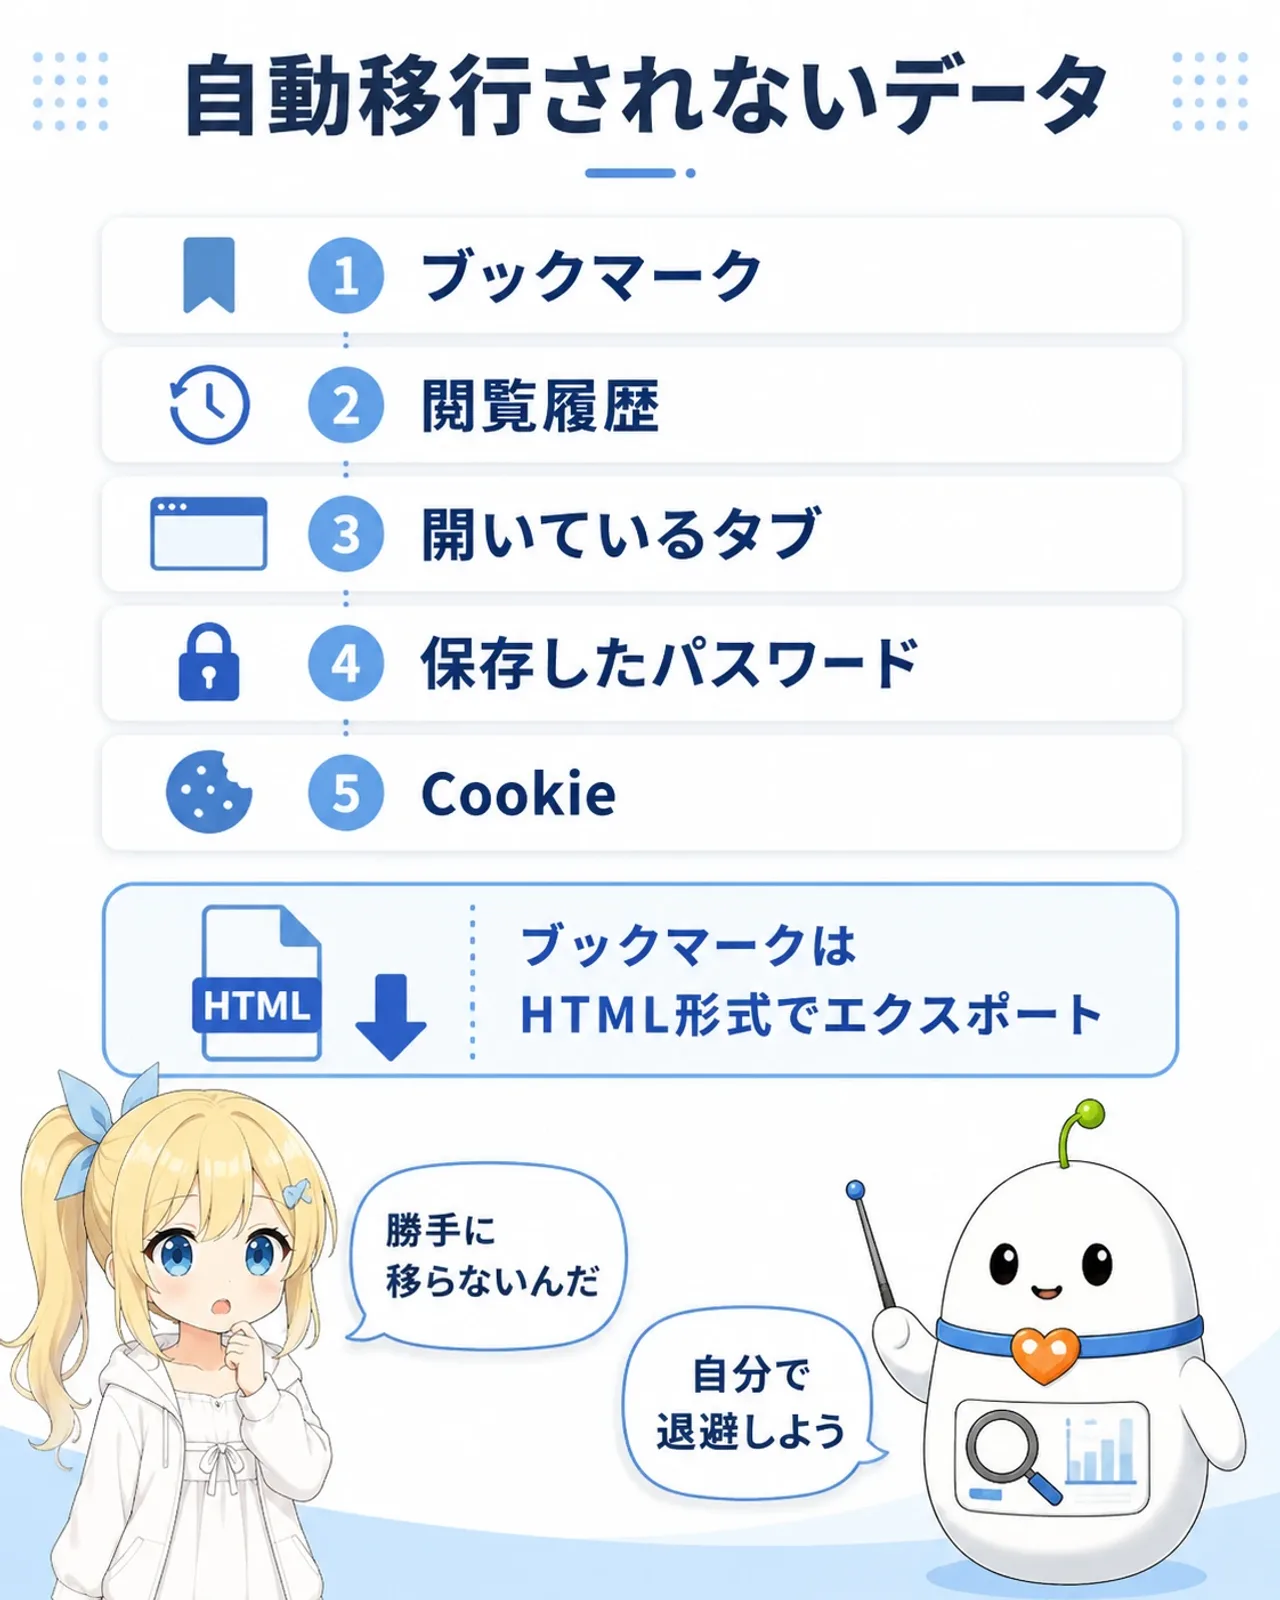
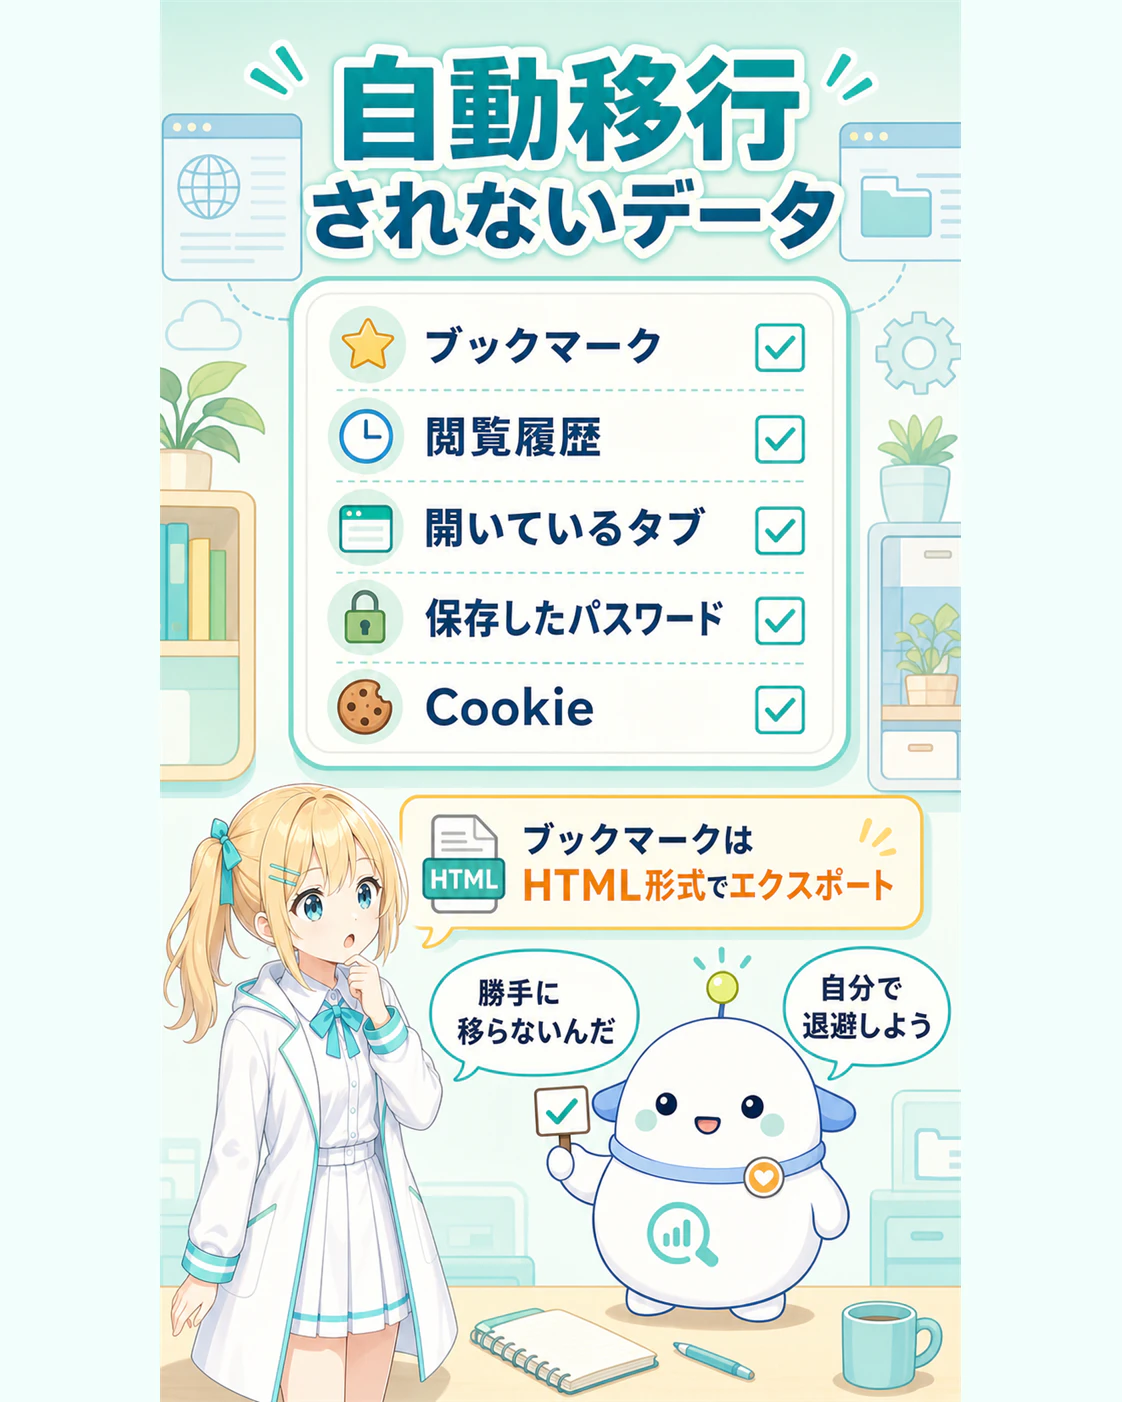
fix(images): regenerate Atlas slide04

diff --git a/logs/article/202607-openai-chatgpt-atlas-browser-end.slide04-reinspection-prompt.md b/logs/article/202607-openai-chatgpt-atlas-browser-end.slide04-reinspection-prompt.md
@@ -1,0 +1,30 @@
+# Atlas記事 slide04 独立再検品
+
+添付画像の順番は、1枚目=ひまり正本、2枚目=らぼまる正本、3枚目=再生成したslide04です。生成作業とは独立した検品者として、3枚目だけを判定してください。
+
+## 文字
+
+次の文字列が一字ずつ正確で、欠落・化け・意味変更がないことを確認します。
+
+- 自動移行されないデータ
+- ブックマーク
+- 閲覧履歴
+- 開いているタブ
+- 保存したパスワード
+- Cookie
+- ブックマークはHTML形式でエクスポート
+- 勝手に移らないんだ
+- 自分で退避しよう
+
+## 認識アンカー
+
+- ひまり: 金髪サイドテール、水色リボン、大きな青い瞳、白衣、正本と同じ顔立ち・体型。
+- らぼまる: 白い卵型ボディ、黄緑アンテナ1本、黒い丸い目、胸のオレンジハートボタン、青い首輪バンド、左右へ横に伸びる青い耳ビレ、正本の腹部マーク。
+- 旧版の問題だった腹部の矩形スクリーン、人型メカ化、青いアンテナ玉、耳ビレ省略がないこと。
+
+## 身体構造
+
+- ひまりは腕2本・手2つ。余分な手指や物体融合なし。
+- らぼまるは短く太い腕が左右各1本、脚も左右各1本。追加の手・指し棒・触手状の腕なし。
+
+いずれかに明確な不一致があれば needs_revision、それ以外は ok としてください。evidenceには文字、ひまり、らぼまる、四肢を個別に確認した根拠を残してください。
